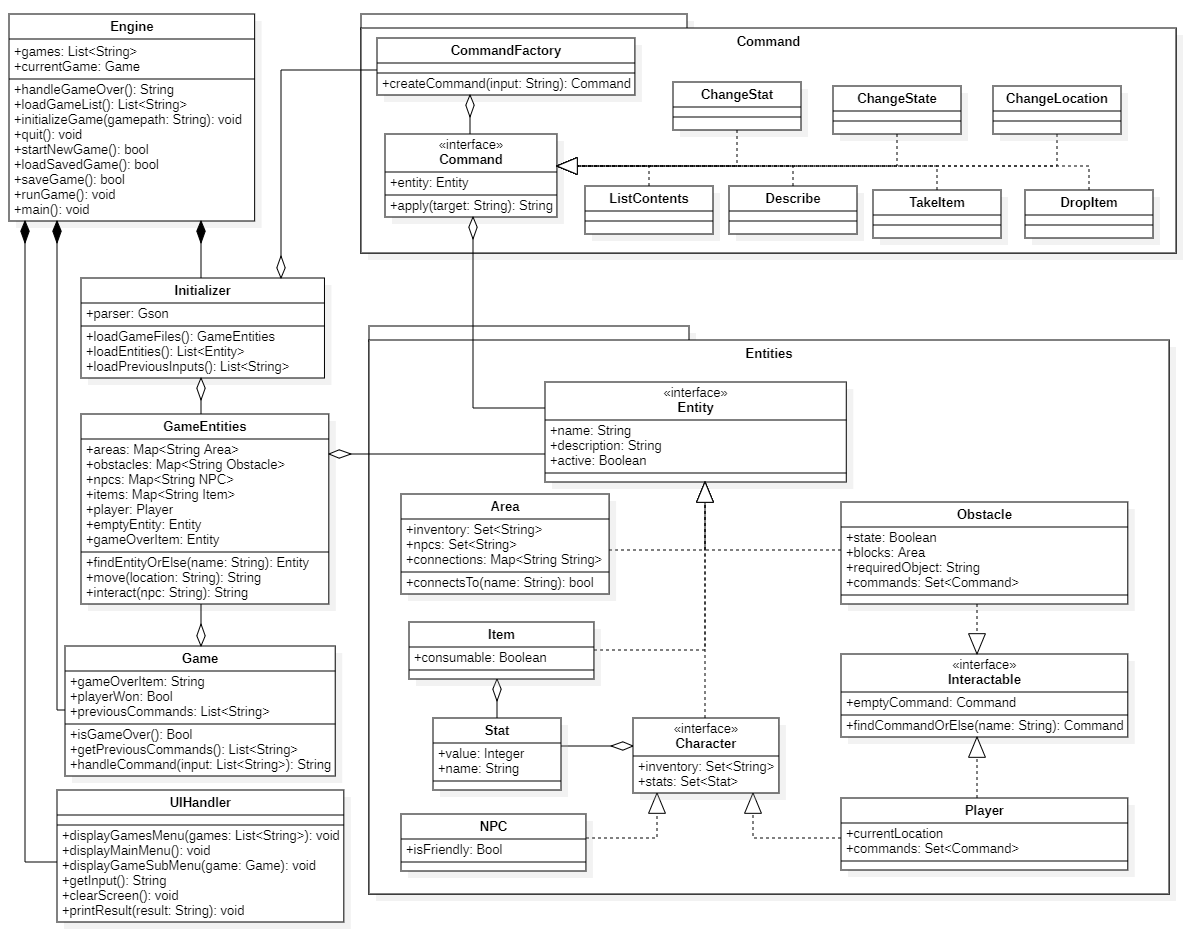
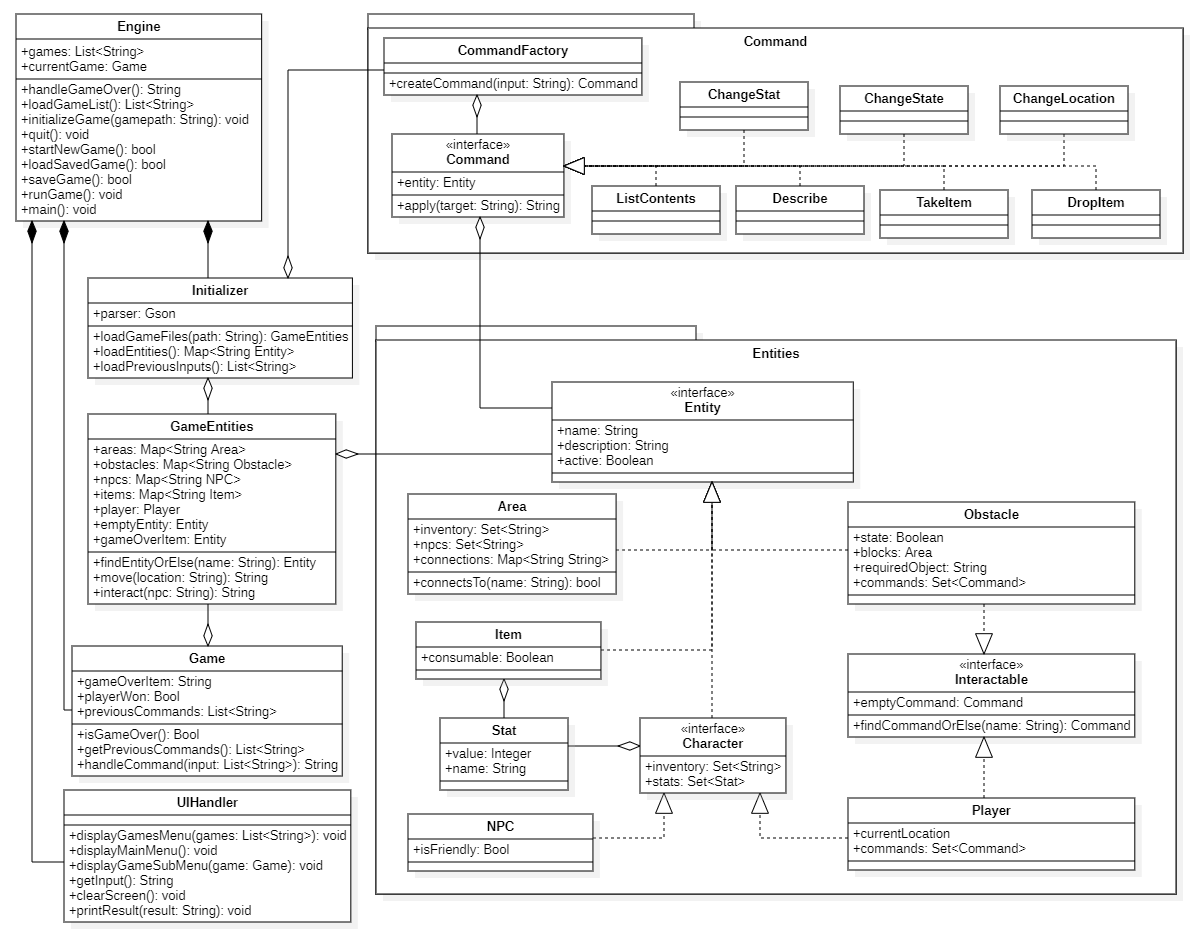
Add Initializer section in assignment2.md and make small changes to functions in the Initializer class diagram

diff --git a/docs/assignment2.md b/docs/assignment2.md
@@ -43,70 +43,272 @@ Associations
 - **_Game_** - Composite. **Games** should not exist apart from an **Engine**, however an **Engine** is not required to have a current game initialized at all times.
 - **_UIHandler_** - Composite. The **UIHandler** should not exist apart from the **Engine**.
 
+
 **Initializer**
+
+Attributes
+- *parser: Gson* - The class for Google's JSON parsing library.
+
+Operations
+- *loadGameFiles: GameEntities* - Finds the JSON game data files associated with the given file path. When the player selects a game from the initial menu the name of this game will be sent to the **Initializer** and the **Initializer** will then open the appropriate folder containing the selected game's game data files. The data from these files will be used to construct a **GameEntities** object which will be sent back to the **Engine** so that it can construct an appropriate game.
+- *loadEntities: Map\<String, Entity\>* - A sub-function that will load **Entity** objects from the appropriate JSON files into a map of name:entity pairs.
+- *loadPreviousInputs: List\<String\>* - Opens and loads into memory the list of commands the player entered when playing previously. These commands will be sent to **Engine** which will replay these commands when loading a saved game.
+
+Associations
+- **_GameEntities_** - Shared. The **Initializer** will use JSON files to create game entity objects which will be stored in a **GameEntities** class. This class will be passed to a **Game** object on construction and will act as the base upon which the game is built.
+- **_CommandFactory_** - Shared. Some entities described in the JSON files can optionally contain commands that describe how the player can interact with them. Commands will be described in the JSON as a name, e.g. "use" for "use key door", followed by a function name that related to a **Command** class such as "changeLocation" or "takeItem". This data will be sent to the **CommandFactory** which builds and returns the correct **Command** type which can then be placed inside the appropriate object (e.g. a door might contain a changeState **Command** that allows a use to type "use key door" to unlock the door).
 
 
 **CommandFactory**
 
+Attributes
+- *edit* -
+
+Operations
+- *edit* -
+
+Associations
+- *edit* -
+
 
 **Command**
+
+Attributes
+- *edit* -
+
+Operations
+- *edit* -
+
+Associations
+- *edit* -
 
 
 **ChangeStat**
 
+Attributes
+- *edit* -
+
+Operations
+- *edit* -
+
+Associations
+- *edit* -
+
 
 **ChangeState**
+
+Attributes
+- *edit* -
+
+Operations
+- *edit* -
+
+Associations
+- *edit* -
 
 
 **ChangeLocation**
 
+Attributes
+- *edit* -
+
+Operations
+- *edit* -
+
+Associations
+- *edit* -
+
 
 **ListContents**
+
+Attributes
+- *edit* -
+
+Operations
+- *edit* -
+
+Associations
+- *edit* -
 
 
 **Describe**
 
+Attributes
+- *edit* -
+
+Operations
+- *edit* -
+
+Associations
+- *edit* -
+
 
 **TakeItem**
+
+Attributes
+- *edit* -
+
+Operations
+- *edit* -
+
+Associations
+- *edit* -
 
 
 **DropItem**
 
+Attributes
+- *edit* -
+
+Operations
+- *edit* -
+
+Associations
+- *edit* -
+
 
 **UIHandler**
+
+Attributes
+- *edit* -
+
+Operations
+- *edit* -
+
+Associations
+- *edit* -
 
 
 **Game**
 
+Attributes
+- *edit* -
+
+Operations
+- *edit* -
+
+Associations
+- *edit* -
+
 
 **GameEntities**
+
+Attributes
+- *edit* -
+
+Operations
+- *edit* -
+
+Associations
+- *edit* -
 
 
 **Entity**
 
+Attributes
+- *edit* -
+
+Operations
+- *edit* -
+
+Associations
+- *edit* -
+
 
 **Area**
+
+Attributes
+- *edit* -
+
+Operations
+- *edit* -
+
+Associations
+- *edit* -
 
 
 **Item**
 
+Attributes
+- *edit* -
+
+Operations
+- *edit* -
+
+Associations
+- *edit* -
+
 
 **State**
+
+Attributes
+- *edit* -
+
+Operations
+- *edit* -
+
+Associations
+- *edit* -
 
 
 **Character**
 
+Attributes
+- *edit* -
+
+Operations
+- *edit* -
+
+Associations
+- *edit* -
+
 
 **NPC**
+
+Attributes
+- *edit* -
+
+Operations
+- *edit* -
+
+Associations
+- *edit* -
 
 
 **Interactable**
 
+Attributes
+- *edit* -
+
+Operations
+- *edit* -
+
+Associations
+- *edit* -
+
 
 **Player**
 
+Attributes
+- *edit* -
+
+Operations
+- *edit* -
+
+Associations
+- *edit* -
+
 
 **Obstacle**
+
+Attributes
+- *edit* -
+
+Operations
+- *edit* -
+
+Associations
+- *edit* -
 
 
 For each class (and data type) in the class diagram you have to provide a paragraph providing the following information:
